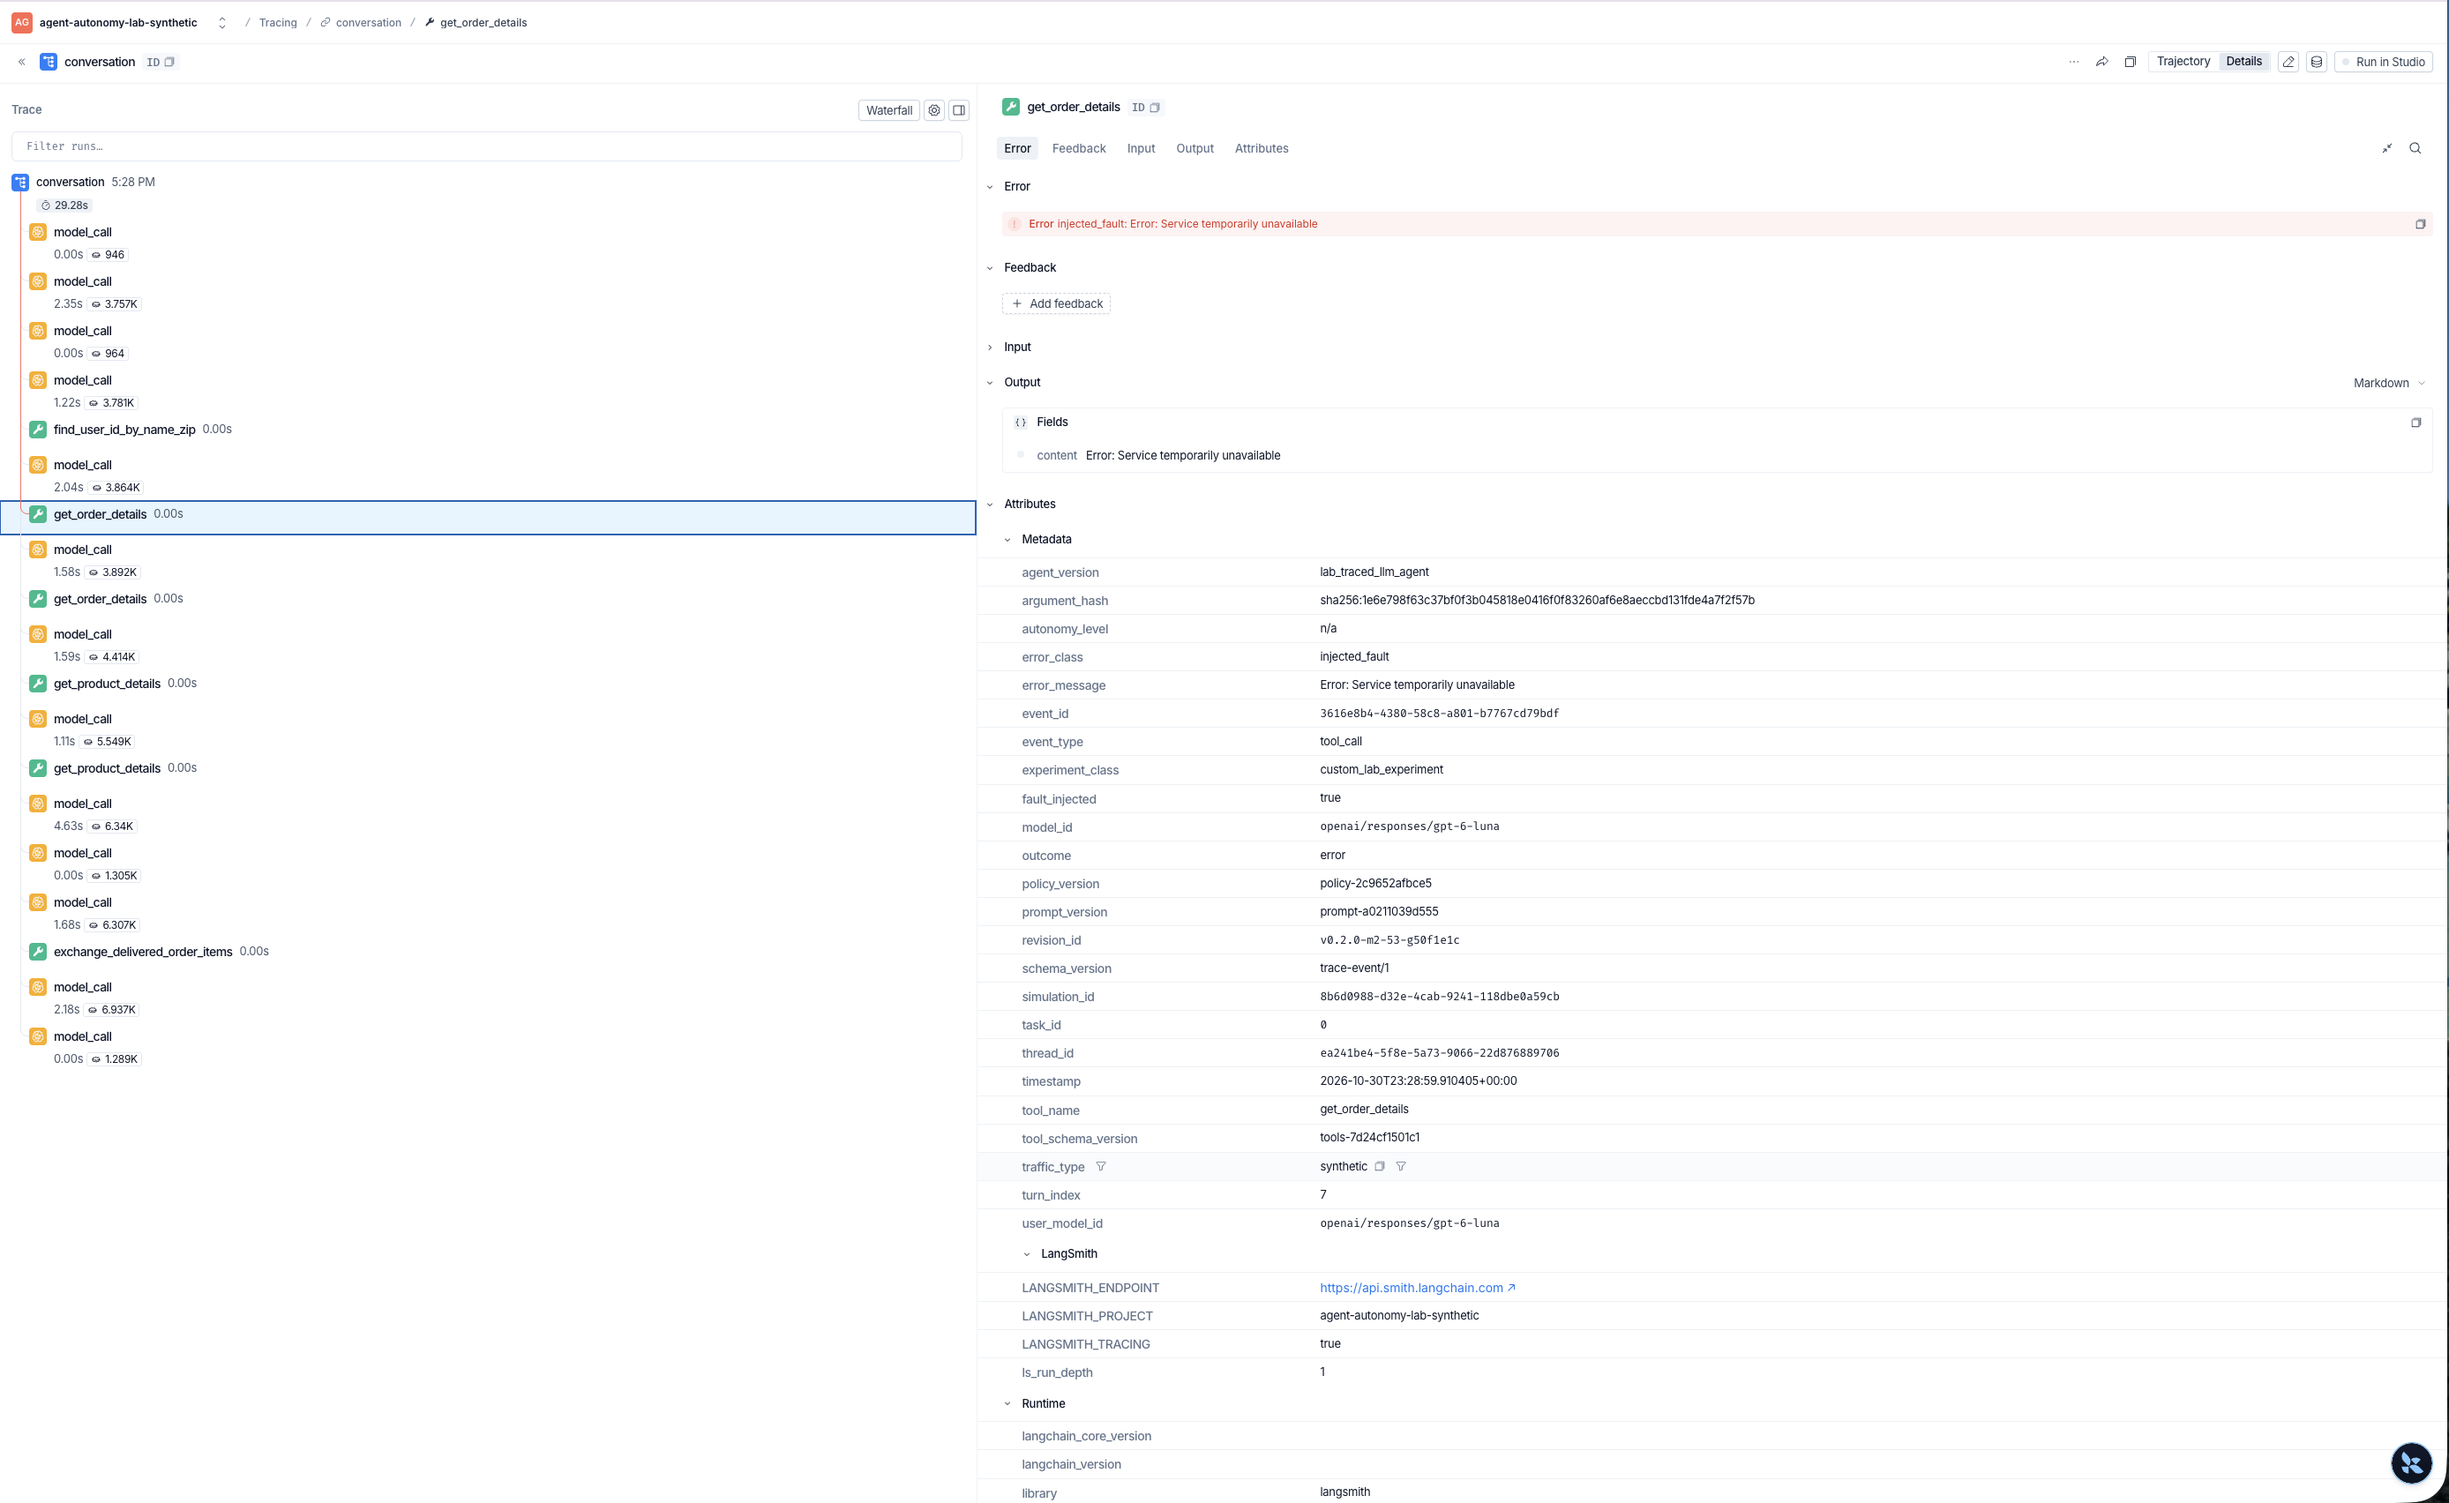
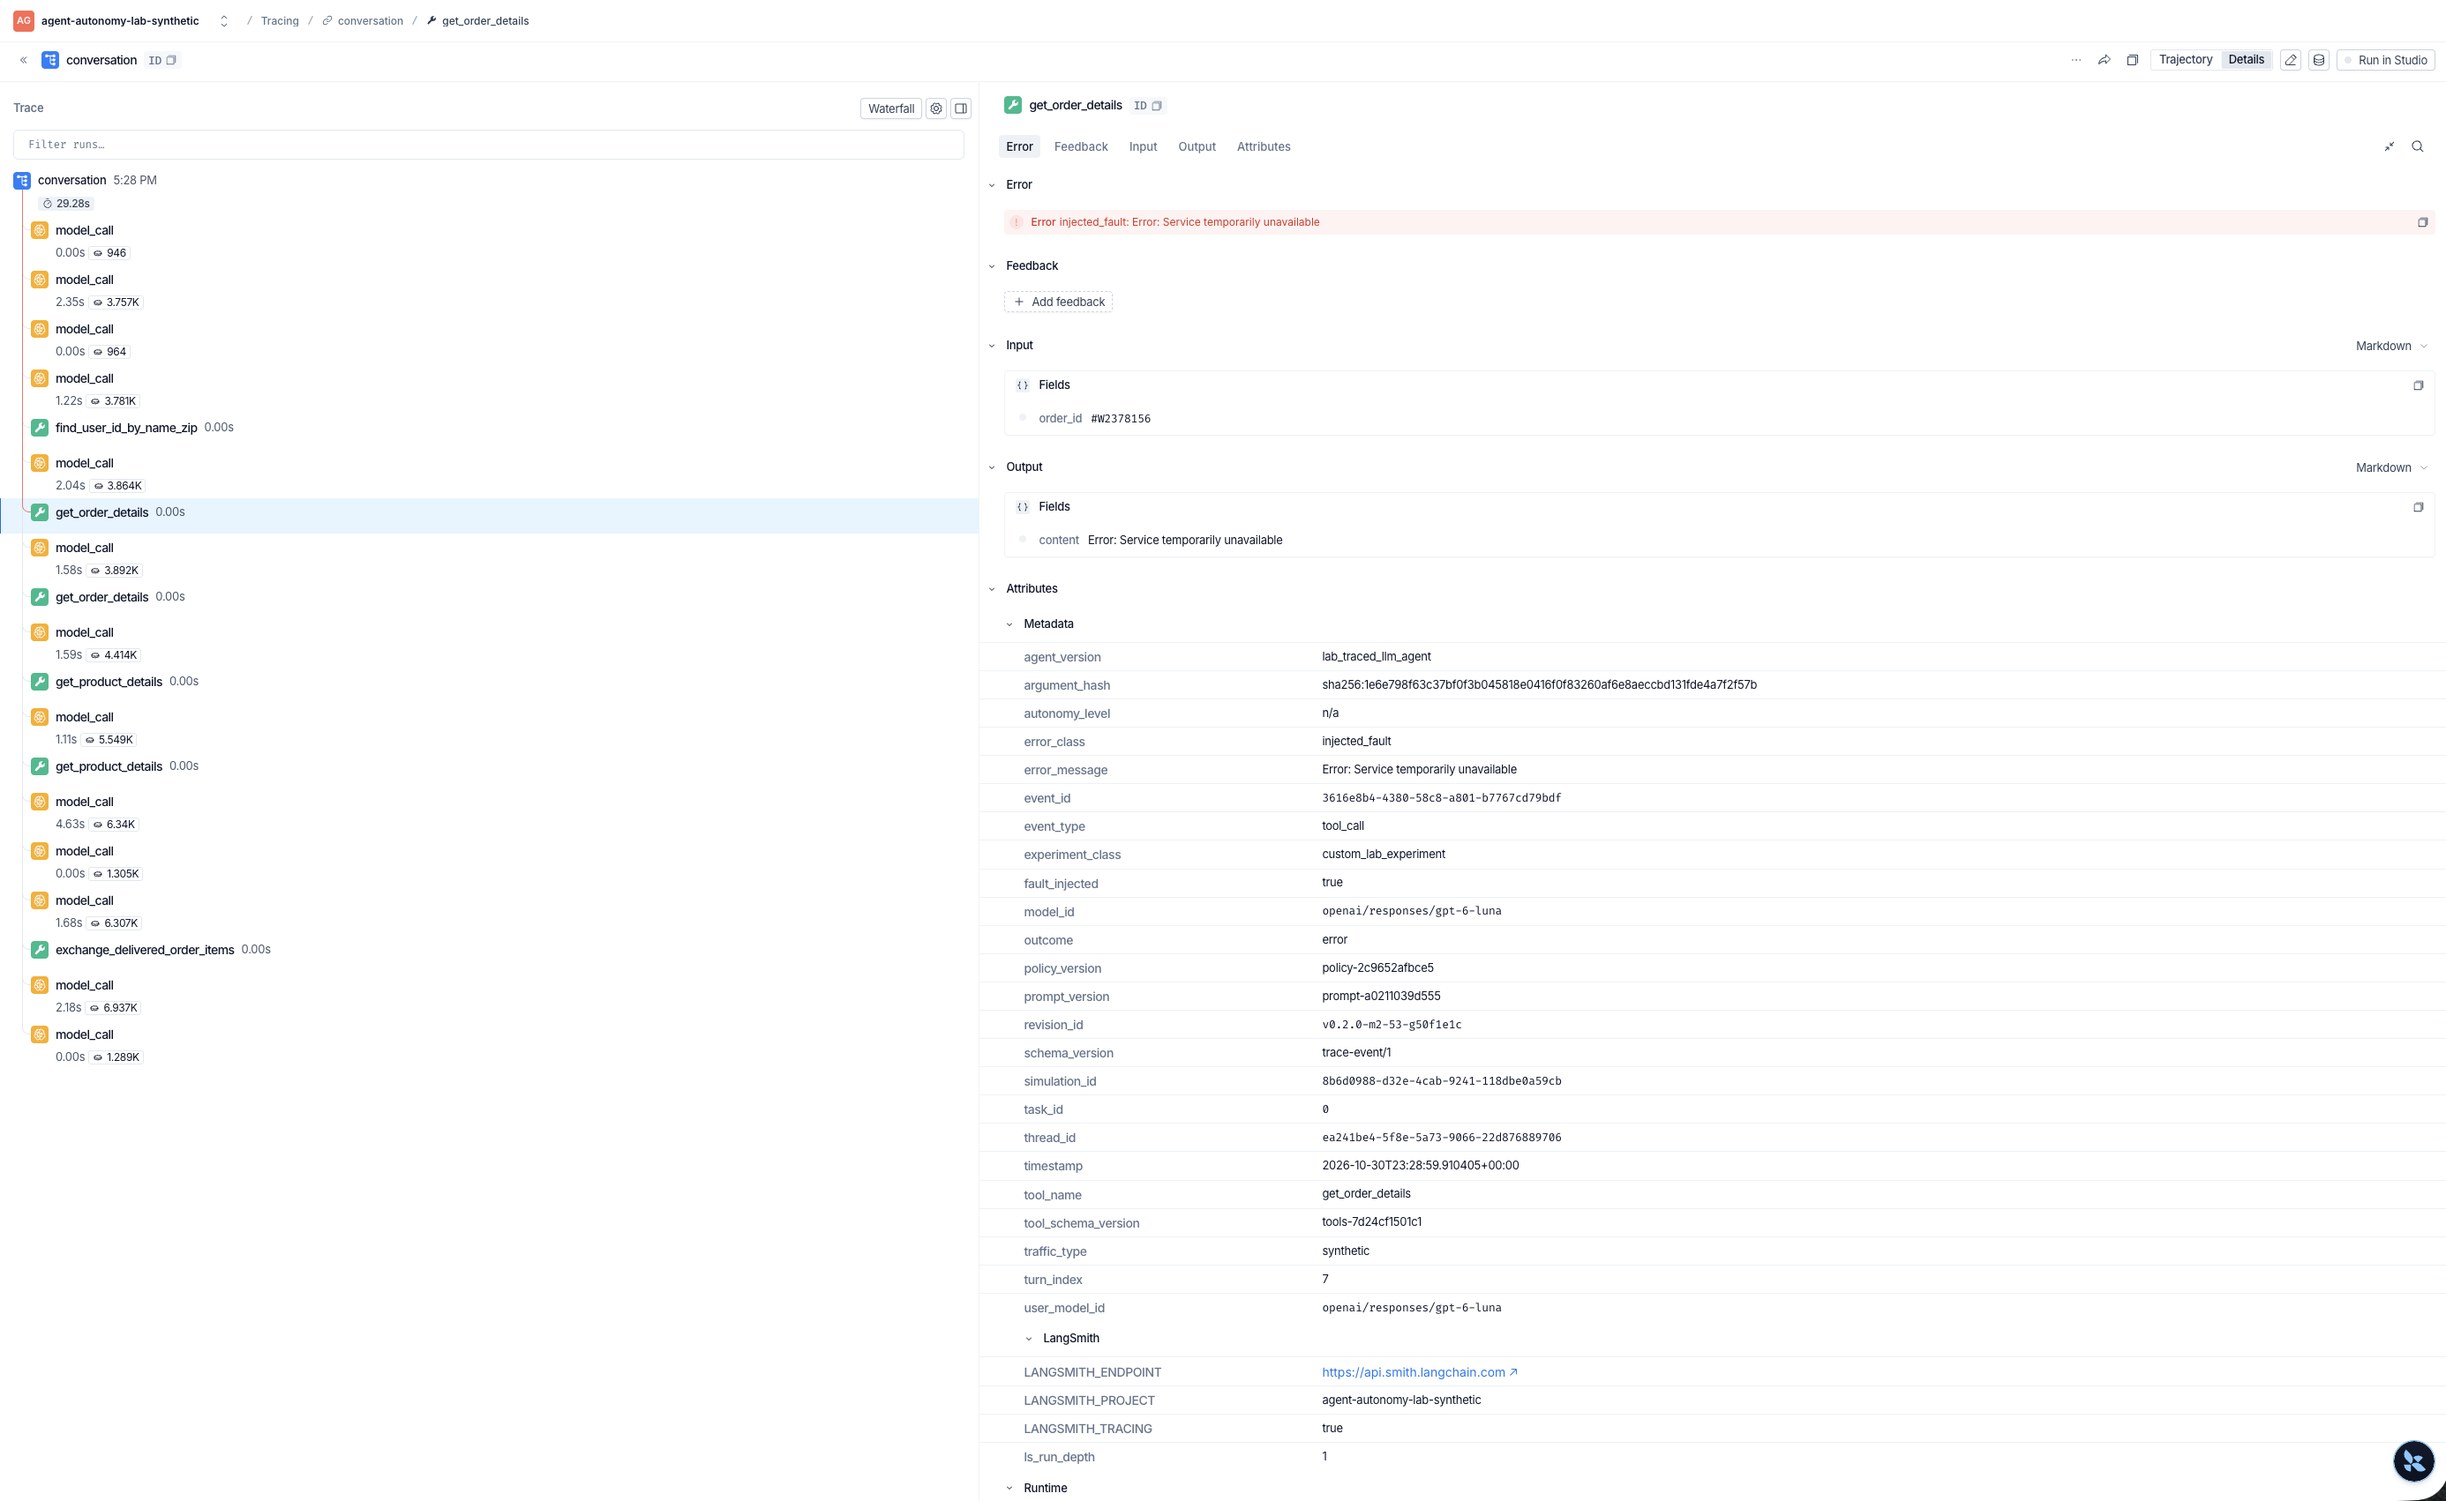
Show the failed call's arguments in its screenshot
Recaptured with the Input section expanded, so the screenshot shows the
arguments directly and the note no longer has to explain the hash.

Refs #78

diff --git a/reports/m3-traces/tool-failure-observation.md b/reports/m3-traces/tool-failure-observation.md
@@ -15,7 +15,7 @@ Milestone 3, [#78](https://github.com/mwalker-tmd/PMA-agent-autonomy-lab/issues/
 | Thread | `thread_id` `ea241be4-5f8e-5a73-9066-22d876889706`, `simulation_id` `8b6d0988-d32e-4cab-9241-118dbe0a59cb` |
 | Labels | `traffic_type: synthetic`, `experiment_class: custom_lab_experiment`, `fault_injected: true`, on all 20 runs |
 
-It is the trace's only error run. Screenshot (trace URLs expire with the project's 14-day retention): [the failure event](screenshots/m3-08-tool-failure.png), showing the error, the tool name, the span's place in the trace, and its metadata. Its Input section is collapsed, so it shows the arguments as `argument_hash` only; hashing `{"order_id": "#W2378156"}` with the lab's `argument_hash()` gives that same value, and the run inputs read back through the API hold those arguments.
+It is the trace's only error run. Screenshot (trace URLs expire with the project's 14-day retention): [the failure event](screenshots/m3-08-tool-failure.png), showing the error, the tool name, the arguments, the span's place in the trace, and its metadata.
 
 ## What the agent did
 
